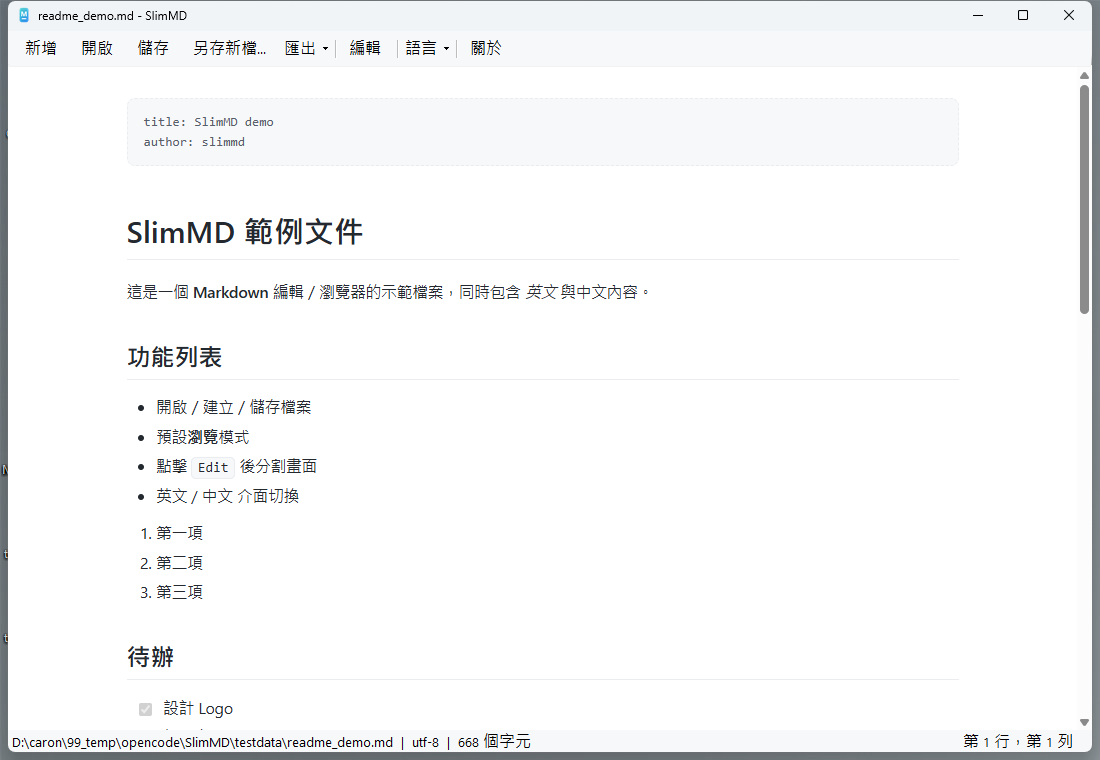
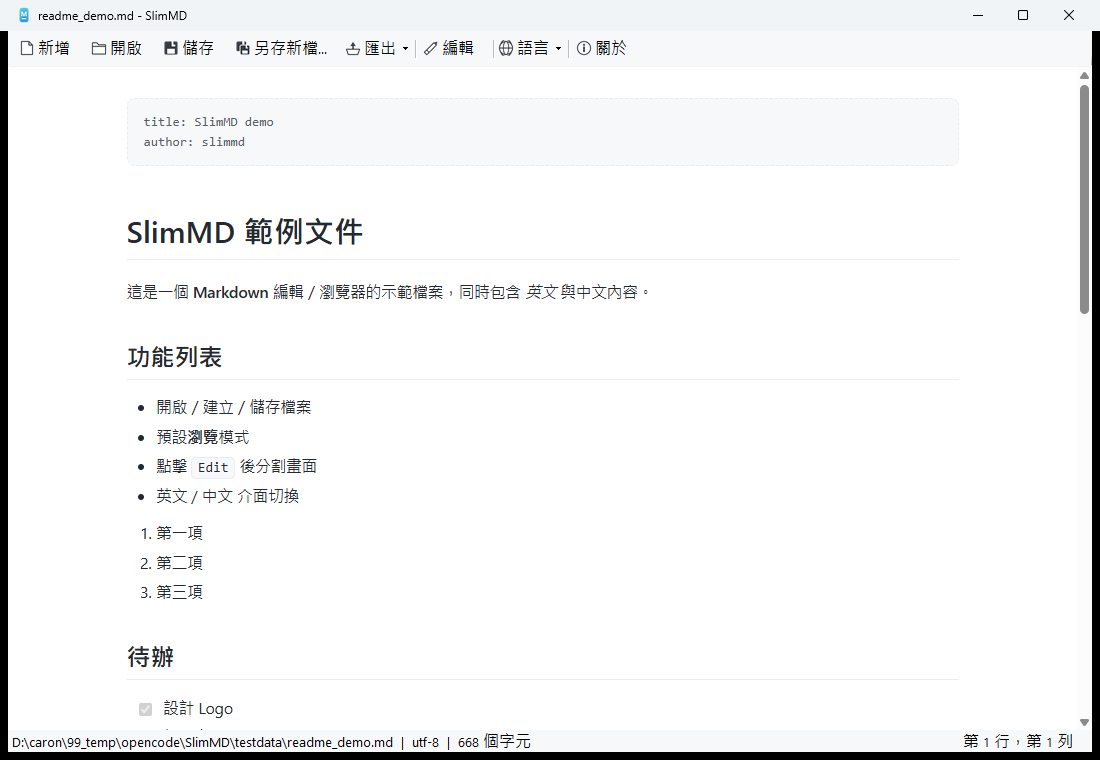
Release v1.0.1
- Bump version to 1.0.1 (csproj, Inno Setup, manifest, About fallback, README download commands, test expectations).
- CHANGELOG: close out 1.0.1 (2026-11-16) with the feedback-round fixes, block-based scroll sync, multi-tab + close buttons and toolbar icons.
- Regenerate all four README screenshots with the new toolbar icons and 1.0.1 About dialog.
- readme-shots.ps1: use PrintWindow (window-owned pixels) instead of CopyFromScreen (stale/occluded frames); verify the Edit toggle and retry on failure.
- e2e/installer tests updated for the 1.0.1 version and installer filename.

Changed region(s): [[0.0, 0.0, 1.0, 1.0], [0.5255, 0.0303, 0.5564, 0.0908]]

diff --git a/src/SlimMD/AboutDialog.cs b/src/SlimMD/AboutDialog.cs
@@ -150,7 +150,7 @@ internal sealed class AboutDialog : Form
         var raw = (Application.ProductVersion ?? "").Split('+')[0].Trim();
         var parts = raw.Split('.');
         if (parts.Length >= 3) return $"{parts[0]}.{parts[1]}.{parts[2]}";
-        return string.IsNullOrEmpty(raw) ? "1.0.0" : raw;
+        return string.IsNullOrEmpty(raw) ? "1.0.1" : raw;
     }
 
     private static void AddBody(TableLayoutPanel layout, int row, string text, bool bold = false)

diff --git a/CHANGELOG.md b/CHANGELOG.md
@@ -2,7 +2,9 @@
 
 All notable changes to SlimMD.
 
-## Unreleased
+## 1.0.1 — 2026-11-16
+
+Second release: user-feedback round, block-based scroll sync and toolbar icons.
 
 ### Interface
 - Every toolbar item (New, Open, Save, Save As, Export, Edit, Language,
@@ -12,10 +14,6 @@ All notable changes to SlimMD.
 - All glyphs share the same 13x13 footprint inside the 16x16 grid so the
   row reads uniformly; Save As uses two overlapping floppies rather than
   a pencil overlay, which looked lopsided at 16px.
-- `tools\tabs-test.ps1` now re-resolves the main-window handle through a
-  live UIA check — `Start-Process -PassThru` can hand back a stale handle
-  after the window is recreated during startup, which made every UIA
-  lookup silently return nothing.
 
 ### Scroll synchronisation
 - Scroll sync is now **block-based** instead of proportional: the renderer
@@ -58,6 +56,10 @@ All notable changes to SlimMD.
 - New tests: 15 multi-tab/close-prompt/✕ checks (`tools\tabs-test.ps1`),
   4 scroll-sync checks (`tools\scroll-test.ps1`), 6 block-alignment checks
   (`tools\blocksync-test.ps1`).
+- `tools\tabs-test.ps1` now re-resolves the main-window handle through a
+  live UIA check — `Start-Process -PassThru` can hand back a stale handle
+  after the window is recreated during startup, which made every UIA
+  lookup silently return nothing.
 
 ## 1.0.0 — 2026-11-12
 

diff --git a/README.md b/README.md
@@ -71,7 +71,7 @@ instantly, and handles `.md` files with proper encoding (UTF-8 / Big5 / GBK).
 
 ## Install
 
-Run `dist\SlimMD-1.0.0-Setup.exe` — a per-user install (no admin rights
+Run `dist\SlimMD-1.0.1-Setup.exe` — a per-user install (no admin rights
 required), to `%LOCALAPPDATA%\Programs\SlimMD`.
 
 Optional tasks in the installer: desktop shortcut, `.md` file association.
@@ -82,7 +82,7 @@ folder.
 ### Silent install
 
 ```
-SlimMD-1.0.0-Setup.exe /VERYSILENT /SUPPRESSMSGBOXES /NORESTART
+SlimMD-1.0.1-Setup.exe /VERYSILENT /SUPPRESSMSGBOXES /NORESTART
 ```
 
 ## Build from source

diff --git a/README.zh-Hant.md b/README.zh-Hant.md
@@ -59,7 +59,7 @@
 
 ## 安裝
 
-執行 `dist\SlimMD-1.0.0-Setup.exe` — 僅安裝給目前使用者（不需要系統管理員
+執行 `dist\SlimMD-1.0.1-Setup.exe` — 僅安裝給目前使用者（不需要系統管理員
 權限），預設安裝至 `%LOCALAPPDATA%\Programs\SlimMD`。
 
 安裝程式提供選用項目：桌面捷徑、`.md` 檔關聯。
@@ -69,7 +69,7 @@
 ### 靜默安裝
 
 ```
-SlimMD-1.0.0-Setup.exe /VERYSILENT /SUPPRESSMSGBOXES /NORESTART
+SlimMD-1.0.1-Setup.exe /VERYSILENT /SUPPRESSMSGBOXES /NORESTART
 ```
 
 ## 從原始碼建置
